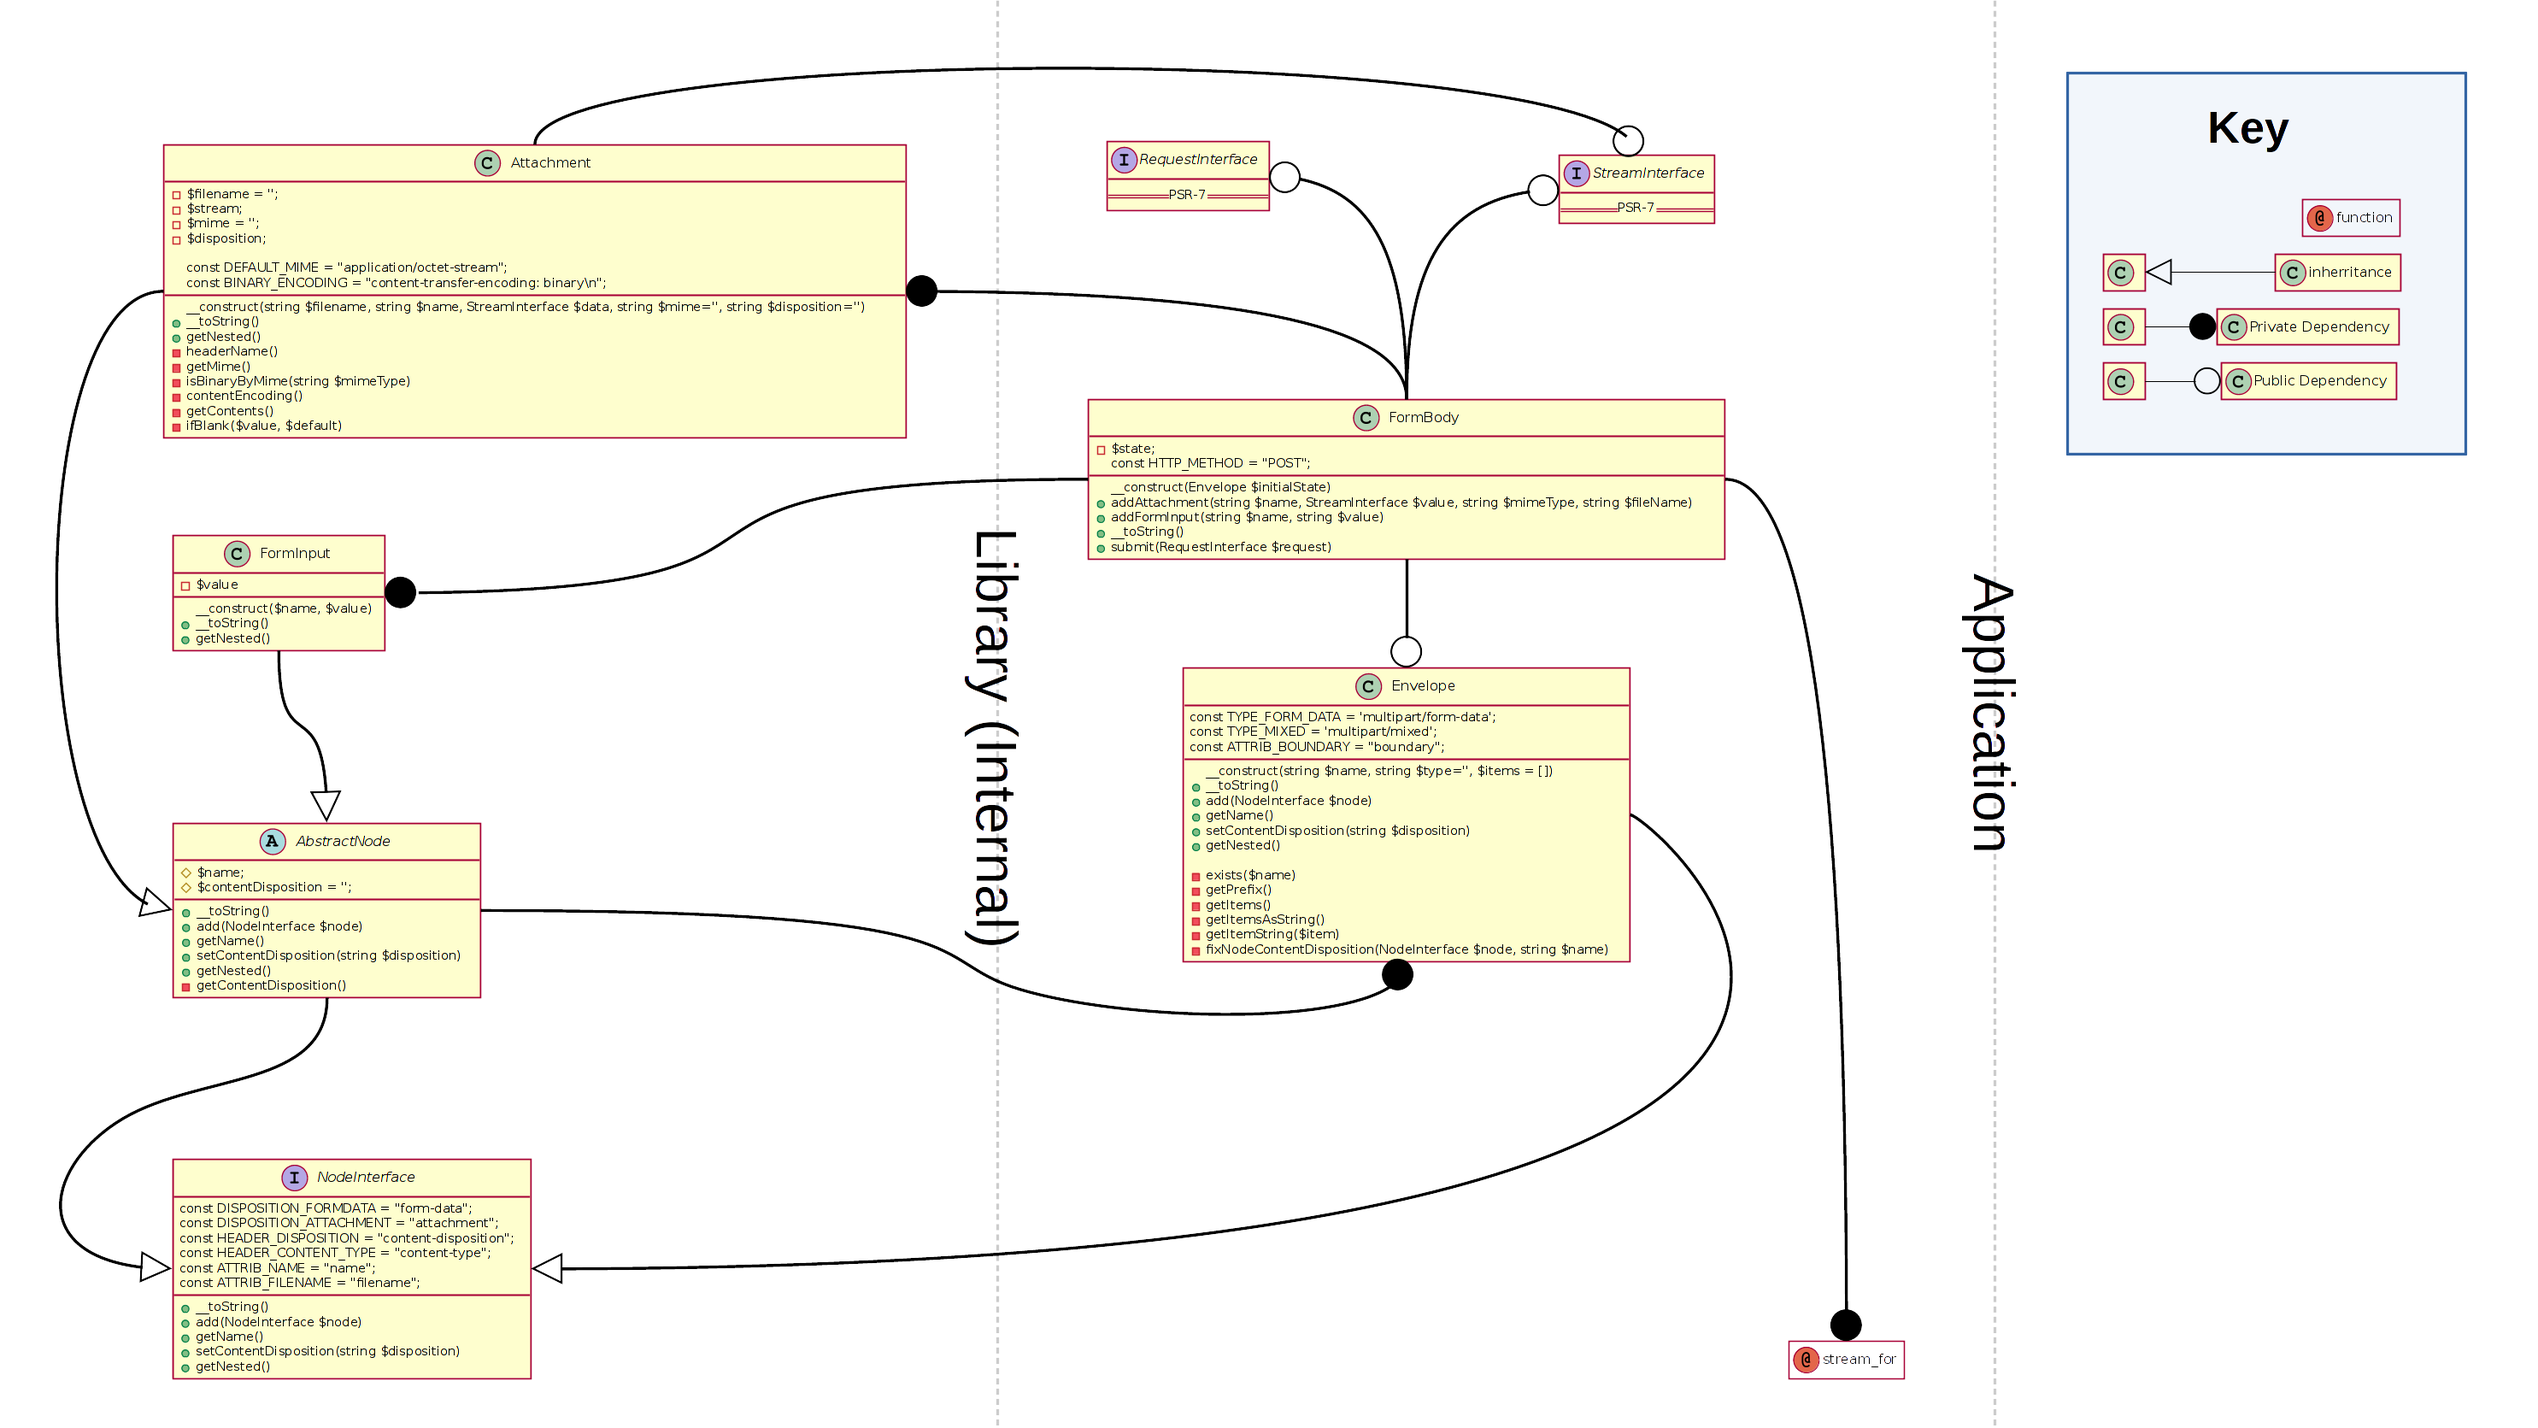
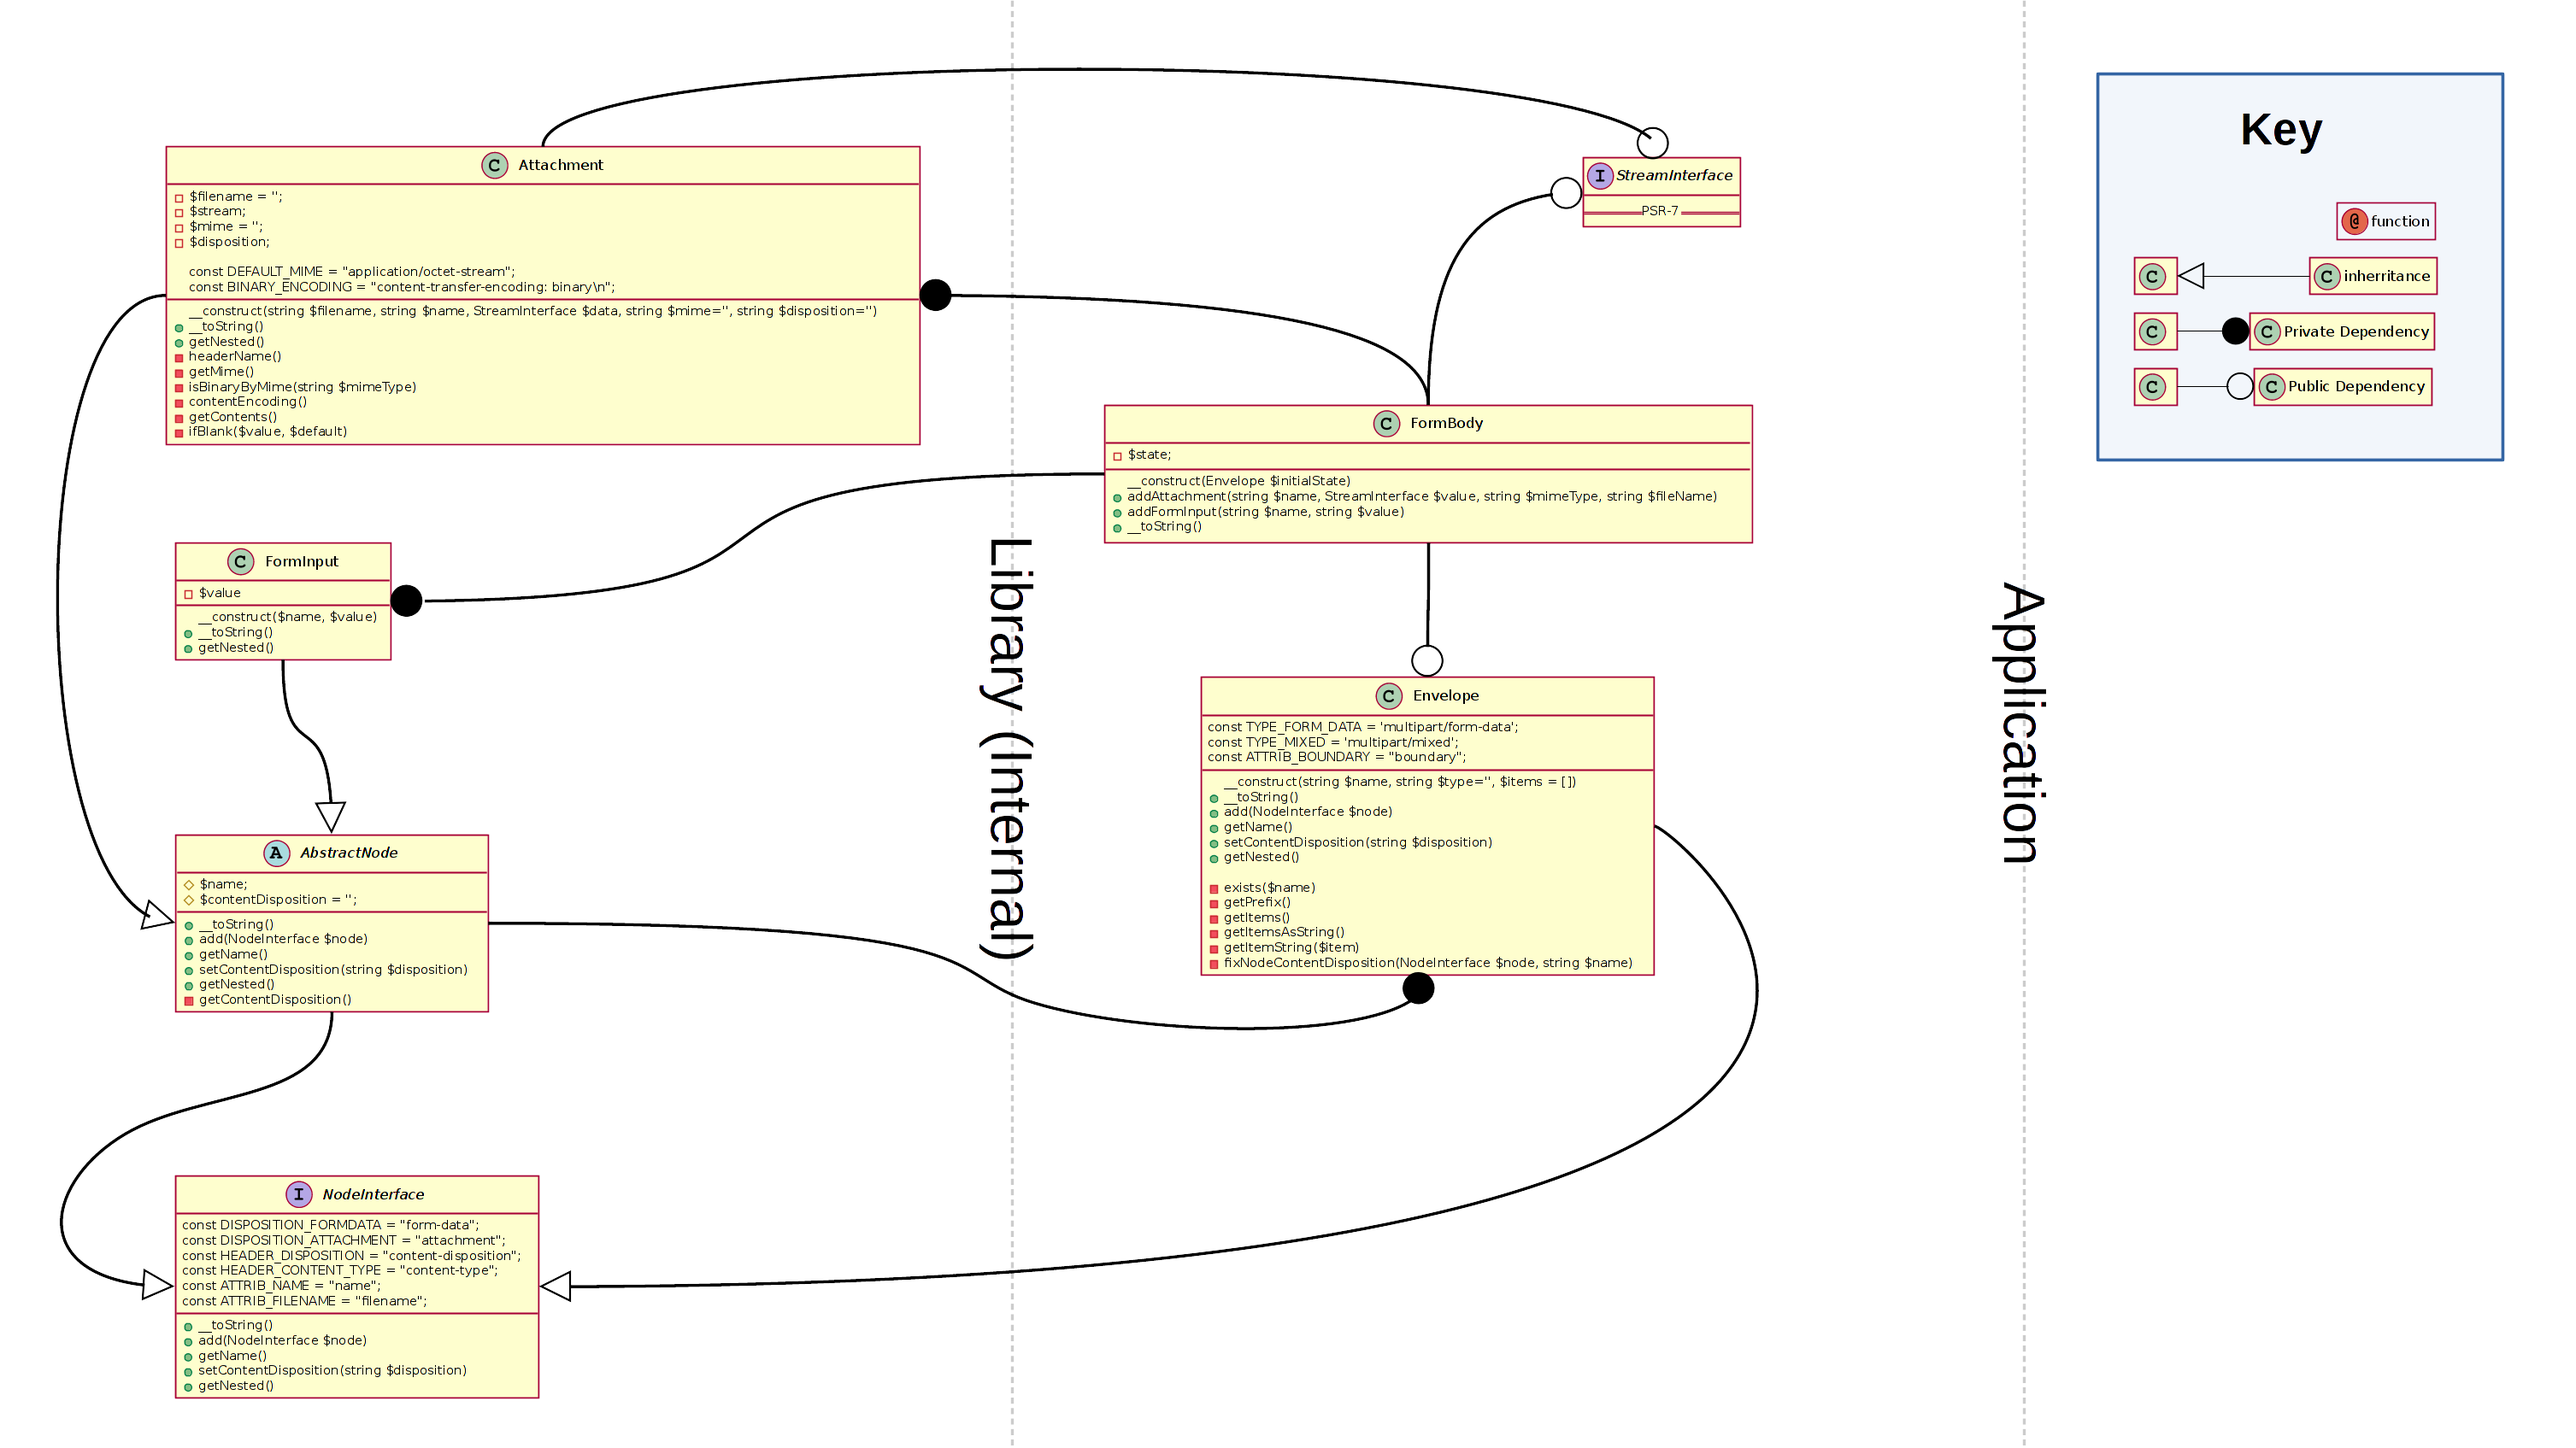
Bumped to PHP7
* Removed dependency on PSR-7 Request & Guzzle from Dist
* Updated class diagrams
* Updated composer.json

diff --git a/tests/BasicTest.php b/tests/BasicTest.php
@@ -28,19 +28,14 @@ class BasicTest extends TestCase
     /**
      * @test
      */
-    public function it_accepts_any_valid_psr7_requestinterface_implementation() {
-        $request = new Request('GET', 'https://www.github.com');
-        $out = $this->body->submit($request);
-        $this->assertTrue($out->getMethod() == FormBody::HTTP_METHOD);
-    }
-
-    /**
-     * @test
-     */
-    public function it_does_not_mutate_requests() {
-        $request = new Request('GET', 'https://www.github.com');
-        $out = $this->body->submit($request);
-        $this->assertTrue($request->getMethod() != $out->getMethod());
+    public function it_can_be_passed_to_a_psr7_compatible_request_as_body() {
+        $request = new Request('POST', 'https://www.github.com');
+        $out = $request->withBody(stream_for("$this->body"));
+        $this->assertNotEquals(
+            $request->getBody()->getContents(),
+            $out->getBody()->getContents(),
+            "The Body Has Not Been Modified"
+        );
     }
 
     /**

diff --git a/src/FormBody.php b/src/FormBody.php
@@ -6,16 +6,12 @@ use lewiscowles\Rfc\Envelope;
 use lewiscowles\Rfc\FormInput;
 use lewiscowles\Rfc\Attachment;
 
-use Psr\Http\Message\RequestInterface;
 use Psr\Http\Message\StreamInterface;
-
-use function GuzzleHttp\Psr7\stream_for;
 
 
 Final class FormBody {
 
     private $state;
-    const HTTP_METHOD = "POST";
 
     public function __construct(Envelope $initialState) {
         $this->state = $initialState;
@@ -38,13 +34,5 @@ Final class FormBody {
 
     public function __toString() {
         return "{$this->state}";
-    }
-
-    public function submit(RequestInterface $request) {
-        return $request
-            ->withBody(
-                stream_for("$this->state")
-            )
-            ->withMethod(self::HTTP_METHOD);
     }
 }

diff --git a/src/AbstractNode.php b/src/AbstractNode.php
@@ -7,6 +7,7 @@ use lewiscowles\Rfc\NodeInterface;
 
 use NotImplemented;
 
+
 abstract class AbstractNode implements NodeInterface {
     protected $name;
     protected $contentDisposition = '';
@@ -25,7 +26,7 @@ abstract class AbstractNode implements NodeInterface {
         return $envelope;
     }
 
-    public function getName() {
+    public function getName() : string {
         return $this->name;
     }
 
@@ -33,7 +34,7 @@ abstract class AbstractNode implements NodeInterface {
         $this->contentDisposition = $disposition;
     }
 
-    public function getNested() {
+    public function getNested() : NodeInterface {
         throw new NotImplemented("error");
     }
 

diff --git a/src/Envelope.php b/src/Envelope.php
@@ -60,7 +60,7 @@ Final class Envelope implements NodeInterface {
         return $this->items[$name];
     }
 
-    public function getName() {
+    public function getName() : string {
         return $this->name;
     }
 
@@ -68,7 +68,7 @@ Final class Envelope implements NodeInterface {
         $this->contentDisposition = $disposition;
     }
 
-    public function getNested() {
+    public function getNested() : NodeInterface {
         return new Envelope($this->name, self::TYPE_MIXED, $this->getItems());
     }
 

diff --git a/src/NodeInterface.php b/src/NodeInterface.php
@@ -2,6 +2,7 @@
 
 namespace lewiscowles\Rfc;
 
+
 interface NodeInterface {
 
     const DISPOSITION_FORMDATA = "form-data";
@@ -16,9 +17,9 @@ interface NodeInterface {
 
     public function add(NodeInterface $node);
 
-    public function getName();
+    public function getName() : string;
 
     public function setContentDisposition(string $disposition);
 
-    public function getNested();
+    public function getNested() : NodeInterface;
 }

diff --git a/src/Attachment.php b/src/Attachment.php
@@ -42,7 +42,7 @@ Final class Attachment extends AbstractNode {
         );
     }
 
-    public function getNested() {
+    public function getNested() : NodeInterface {
         return new Attachment(
             $this->filename,
             $this->name,

diff --git a/src/FormInput.php b/src/FormInput.php
@@ -24,7 +24,7 @@ Final class FormInput extends AbstractNode {
         );
     }
 
-    public function getNested() {
+    public function getNested() : NodeInterface {
         return new FormInput($this->name, $this->value);
     }
 }
